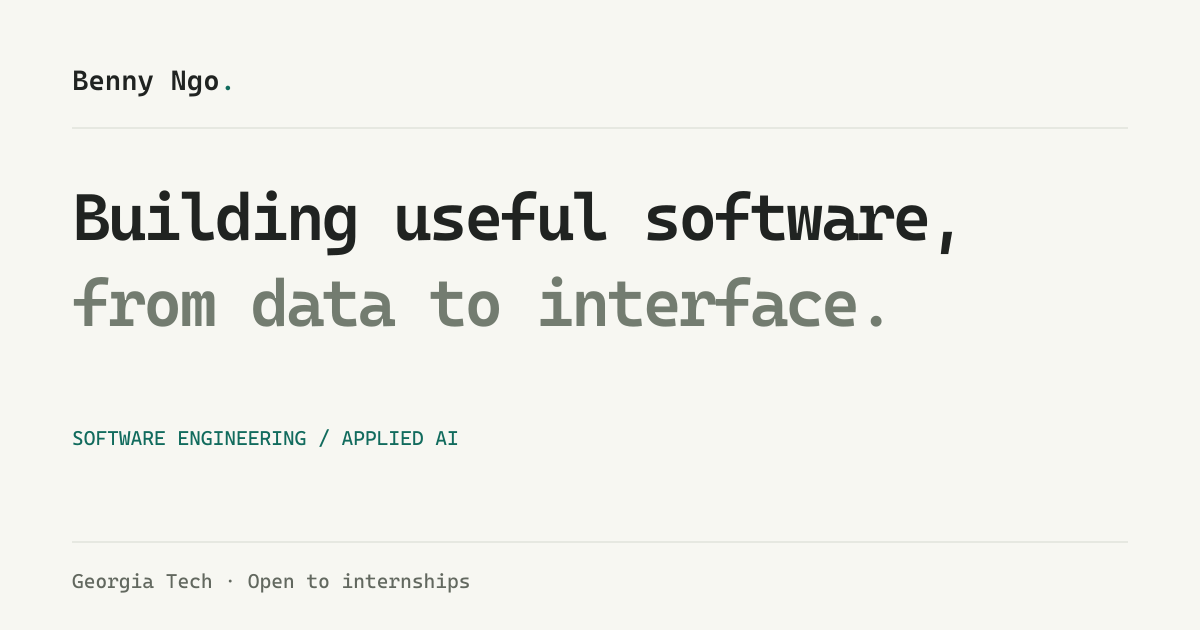
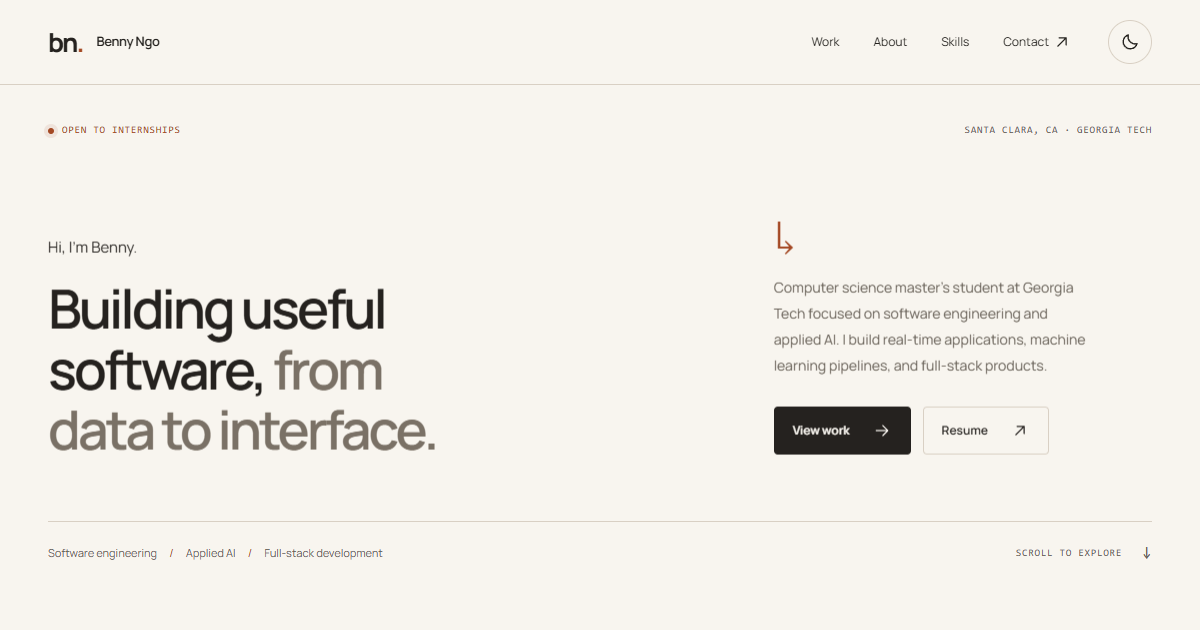
Give portfolio a warm ivory and copper identity

diff --git a/src/styles/global.css b/src/styles/global.css
@@ -1,6 +1,6 @@
-:root { --canvas: #f7f7f2; --surface: #eeefe8; --ink: #202321; --muted: #62685f; --soft: #737c70; --accent: #116b5d; --border: #d5d9cf; --header: #f7f7f2f0; color-scheme: light; font-family: 'Manrope Variable', Manrope, sans-serif; }
-:root[data-theme='dark'] { --canvas: #151918; --surface: #202623; --ink: #f2f3ee; --muted: #b1b9b0; --soft: #a2ada3; --accent: #8ddfc5; --border: #38433b; --header: #151918f0; color-scheme: dark; }
-@media (prefers-color-scheme: dark) { :root:not([data-theme]) { --canvas: #151918; --surface: #202623; --ink: #f2f3ee; --muted: #b1b9b0; --soft: #a2ada3; --accent: #8ddfc5; --border: #38433b; --header: #151918f0; color-scheme: dark; } }
+:root { --canvas: #f8f5ef; --surface: #eee8df; --ink: #25221f; --muted: #686158; --soft: #7a7166; --accent: #a44924; --border: #d9d0c4; --header: #f8f5eff0; color-scheme: light; font-family: 'Manrope Variable', Manrope, sans-serif; }
+:root[data-theme='dark'] { --canvas: #1c1b19; --surface: #272420; --ink: #f5f0e8; --muted: #bab0a5; --soft: #a89b8b; --accent: #e4a57a; --border: #494039; --header: #1c1b19f0; color-scheme: dark; }
+@media (prefers-color-scheme: dark) { :root:not([data-theme]) { --canvas: #1c1b19; --surface: #272420; --ink: #f5f0e8; --muted: #bab0a5; --soft: #a89b8b; --accent: #e4a57a; --border: #494039; --header: #1c1b19f0; color-scheme: dark; } }
 * { box-sizing: border-box; }
 html { scroll-behavior: smooth; scroll-padding-top: 100px; }
 body { margin: 0; background: var(--canvas); color: var(--ink); -webkit-font-smoothing: antialiased; font-size: 16px; line-height: 1.65; }
